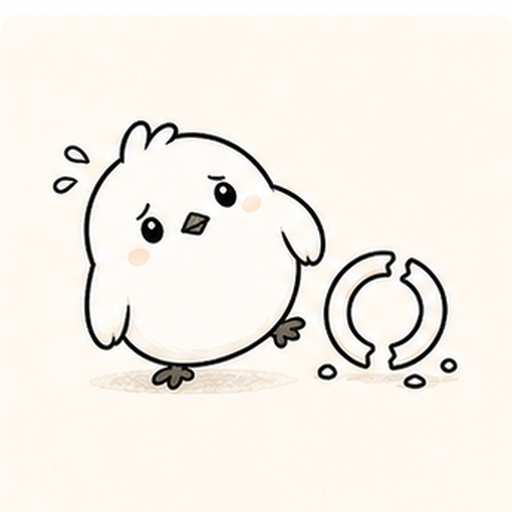
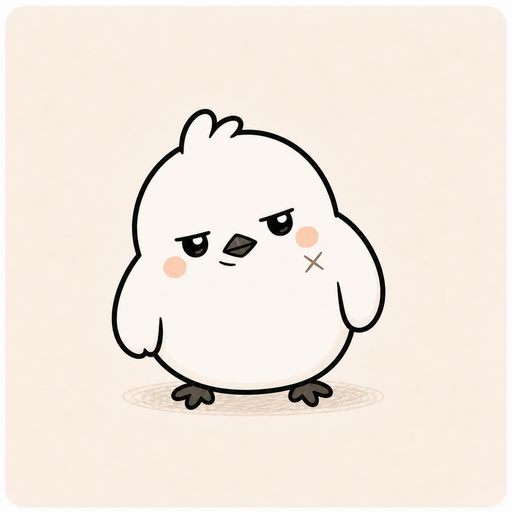
Refine mm7 and m7-5 action expressions

Changed region(s): [[0.0938, 0.1875, 0.9062, 0.8125], [0.0312, 0.0, 0.9688, 0.0312]]

diff --git a/app/index.html b/app/index.html
@@ -4,7 +4,7 @@
     <meta charset="utf-8">
     <meta name="viewport" content="width=device-width, initial-scale=1">
     <title>Codori MVP</title>
-    <link rel="stylesheet" href="./styles.css?v=20260530-dim-add9-v3">
+    <link rel="stylesheet" href="./styles.css?v=20260530-mm7-m75-v3">
   </head>
   <body>
     <main class="app-shell">
@@ -221,6 +221,6 @@
       </section>
     </main>
 
-    <script src="./main.js?v=20260530-dim-add9-v3"></script>
+    <script src="./main.js?v=20260530-mm7-m75-v3"></script>
   </body>
 </html>

diff --git a/app/main.js b/app/main.js
@@ -106,7 +106,7 @@ const ONE_POINT_ACCENTS = {
   },
   mM7: {
     slug: "mm7",
-    title: "宿命の斜め小片",
+    title: "犯人の含み笑い",
     asset: "assets/app/accents/imagegen-v1/mm7.png"
   },
   sus4: {
@@ -116,7 +116,7 @@ const ONE_POINT_ACCENTS = {
   },
   "m7-5": {
     slug: "m7-5",
-    title: "揺れる傾きダイヤ",
+    title: "ニヒルなX傷",
     asset: "assets/app/accents/imagegen-v1/m7-5.png"
   },
   dim: {

diff --git a/docs/ja/learning/all-main-chords-generation-review.md b/docs/ja/learning/all-main-chords-generation-review.md
@@ -45,9 +45,9 @@ B
 | add9 | きらっと見上げる | 元の白い鳥、`?actions=1`で候補表示 |
 | m7 | 夜にほどける | 元の白い鳥、`?actions=1`で候補表示 |
 | maj7 | 透明にたたずむ | 元の白い鳥、`?actions=1`で候補表示 |
-| mM7 | 宿命を見つめる | 元の白い鳥、`?actions=1`で候補表示 |
+| mM7 | 不気味に笑う | 元の白い鳥、`?actions=1`で候補表示 |
 | sus4 | まだ待っている | 元の白い鳥、`?actions=1`で候補表示 |
-| m7-5 | 少し揺れる | 元の白い鳥、`?actions=1`で候補表示 |
+| m7-5 | ニヒルに傾く | 元の白い鳥、`?actions=1`で候補表示 |
 | dim | きゅっと固まる | 元の白い鳥、`?actions=1`で候補表示 |
 | aug | ふわっと驚く | 元の白い鳥、`?actions=1`で候補表示 |
 
@@ -188,7 +188,7 @@ assets/app/review/mm7-app-2026-05-28/
 
 2026-05-28追記：
 
-- mM7は、宿命感が強いv5候補をアプリ確認用に反映した。
+- mM7は、2026-05-30時点でサスペンスの犯人風の不気味な笑みへ更新した。
 - `?actions=1&set=all-main-chords&search=CmM7` でCmM7単体を確認できる。
 
 ---
@@ -298,7 +298,7 @@ assets/app/review/all-main-chords-search-2026-05-23/mobile-search-cadd9.png
 - `Db / Eb / Gb / Ab / Bb` をフラット表記で進めるか、シャープ表記も切り替え可能にするか。
 - 0〜5フレット内の自動運指を、初心者向け運指としてどこまで採用するか。
 - `Sixth` を主要コード種類に入れるタイミング。
-- `mM7` の正式白い鳥アクションを、眉線なしでどこまで宿命感に寄せるか。
+- `mM7` の正式白い鳥アクションを、不気味な笑みとかわいさの境界でどこまで寄せるか。
 - `m7 / maj7 / mM7 / sus4 / m7-5 / dim / aug` の正式透過素材をいつ作るか。
 - 全コード図鑑を、お気に入り・学習済み管理付きに広げるか。
 

diff --git a/docs/ja/core/white-bird-action-system.md b/docs/ja/core/white-bird-action-system.md
@@ -37,7 +37,7 @@ Codoriの本番方針は以下です。
 | add9 | 青い小鳥方向 | 見上げるアクション + 一粒のきらめき |
 | m7 | 夜雀として別鳥種化 | ほどける夜アクション + やわらかい輪 |
 | maj7 | 白鳥として別鳥種化 | 透明で上品なアクション + 小ダイヤ |
-| mM7 | 黒鳥として別鳥種化 | 宿命を見つめるアクション + 斜め小片 |
+| mM7 | 黒鳥として別鳥種化 | 不気味に笑うアクション + 稲妻 |
 
 ## アクションとワンポイント固定表
 
@@ -49,9 +49,9 @@ Codoriの本番方針は以下です。
 | add9 | きらっと見上げる | 少し上を向く、軽く伸びる | 一粒のきらめき | 光を盛りすぎる |
 | m7 | 夜にほどける | 力を抜いて座る/立つ | やわらかい小さな輪 | 黒鳥化、眠りすぎ |
 | maj7 | 透明にたたずむ | 背筋を少し伸ばす、静かに遠くを見る | 透明な小ダイヤ | 白鳥化、首を長くする |
-| mM7 | 宿命を見つめる | 静かに張りつめる、遠くを見る | 細い斜めの小片 | 黒鳥化、ホラー化、悪役化 |
+| mM7 | 不気味に笑う | 目を細めた含み笑い、静かな張りつめ | 稲妻または鋭い小片 | 黒鳥化、怖すぎるホラー化 |
 | sus4 | まだ待っている | 片足または体を少し浮かせる | 浮いた小点 | 不安顔にしすぎる |
-| m7-5 | 少し揺れる | 少し斜め、細い緊張感 | 傾いた小ダイヤ | フクロウ化、怖くする |
+| m7-5 | ニヒルに傾く | 半目、斜に構える、頬のバッテン傷 | 頬のX傷 | フクロウ化、割れた輪っかを足す |
 | dim | きゅっと固まる | 小さくまとまる | 縮んだ小リング | ホラー化 |
 | aug | ふわっと驚く | 少しふくらむ、浮く | 広がる小リング | 派手な極楽鳥化 |
 

diff --git a/docs/ja/characters/white-bird-one-point-accent-system.md b/docs/ja/characters/white-bird-one-point-accent-system.md
@@ -43,9 +43,9 @@
 | add9 | うつろに上を見る | 水色の小さな星 | 空気が抜ける、軽さ | 目線の先 |
 | m7 | 力を抜く | やわらかい小さな輪 | 余韻、ほどける | 足元横 |
 | maj7 | 遠くを見る | 透明な小ダイヤ | 透明感、上品さ | 視線の先 |
-| mM7 | 横向きに張る | 細い斜めの小片 | 宿命、静かな覚悟 | 背後または右上 |
+| mM7 | 不気味に笑う | 稲妻または鋭い小片 | サスペンス、犯人の含み笑い、過酷な運命 | 背後または右上 |
 | sus4 | 片足を浮かせる | 浮いた小点 | 未解決、まだ着地しない | 浮いた足の下 |
-| m7-5 | 斜めに傾く | 傾いた小ダイヤ | 揺れ、不安定 | 傾き側の下 |
+| m7-5 | ニヒルに傾く | 頬のバッテン傷 | 不安定、斜に構える | 頬 |
 | dim | 悪魔的な目で固まる | コウモリ羽 | 不穏、縮む緊張 | 両脇 |
 | aug | 両羽を広げる | 外へ広がる小リング | 膨らみ、拡張 | 両羽の間または上 |
 
@@ -59,15 +59,16 @@
 - minor: 割れたハート
 - 7: ドヤっとしたキラッ
 - add9: 水色の小さな星
-- mM7: 細い斜めの小片
+- mM7: 不気味な笑みと稲妻
 - sus4: 浮いた小点
+- m7-5: 頬のバッテン傷
 - dim: コウモリ羽
 - aug: 広がる小リング
 
 要確認：
 
 - m7の輪とmaj7の小ダイヤが、96pxで十分に違って見えるか。
-- m7-5の傾いた小ダイヤとmaj7の小ダイヤが混同しないか。
+- m7-5の頬のバッテン傷が、96pxで傷として読めるか。
 - dimのコウモリ羽とmM7の稲妻が、96pxで別の印象として読めるか。
 
 ## キー色との関係

diff --git a/docs/ja/core/chord-family-bird-mapping-policy.md b/docs/ja/core/chord-family-bird-mapping-policy.md
@@ -143,10 +143,10 @@ assets/approved/characters/add9.png
 | 7 | C7, G7, A7 | カラス | いたずら、前へ進みたがる、ブルージー |
 | M7 / maj7 | CM7, Cmaj7 | 白鳥 | 透明感、上品、おしゃれ |
 | m7 | Cm7, Am7 | 夜雀 | 夜、余韻、エモい |
-| mM7 | CmM7, Cm(maj7) | 黒鳥 | ミステリー、過酷な運命、静かな覚悟 |
+| mM7 | CmM7, Cm(maj7) | 白い鳥の不気味な笑み | サスペンス、犯人の含み笑い、過酷な運命 |
 | sus4 | Csus4, Gsus4 | ペンギン | 浮遊、未解決、まだ着地しない |
 | add9 | Cadd9, Dadd9 | 青い小鳥 | きらきら、青春、空気感 |
-| m7-5 | Cm7-5, Bm7-5 | フクロウ | 不安定、都会の夜、緊張感 |
+| m7-5 | Cm7-5, Bm7-5 | 白い鳥のニヒルなX傷 | 頬のバッテン傷、不安定、都会の夜 |
 | dim | Cdim, Cdim7 | コキンメフクロウ | 不穏、緊迫、ミステリー |
 | aug | Caug, C+ | 極楽鳥 | 夢、不思議、異世界感 |
  
@@ -252,10 +252,10 @@ Cminmaj7
 デザイン方針：
 
 - ミステリーかつ過酷な運命
-- 悲しみよりも、避けられない運命を見つめる覚悟
-- 黒鳥方向を候補にする
+- 悲しみよりも、サスペンスの犯人のような含み笑い
+- 黒鳥化せず、元の白い鳥の表情差分で表す
 - m7の「ほどける夜」より硬く、maj7の「透明感」より影がある
-- dimのミステリーよりも、ホラーではなく宿命感を優先する
+- dimのミステリーよりも、ホラーではなくサスペンス感を優先する
 
 扱い：
 

diff --git a/docs/ja/characters/white-bird-action-production-brief.md b/docs/ja/characters/white-bird-action-production-brief.md
@@ -30,7 +30,7 @@ LINE展開の前に、他のコード種類も先に完成させる。
 6. maj7 / 透明にたたずむ
 7. mM7 / 宿命を見つめる
 8. sus4 / まだ待っている
-9. m7-5 / 少し揺れる
+9. m7-5 / ニヒルに傾く
 10. dim / きゅっと固まる
 11. aug / ふわっと驚く
 ```
@@ -66,7 +66,7 @@ docs/ja/characters/pre-line-chord-action-completion-plan.md
 | maj7 | 透明にたたずむ | 静かに遠くを見る、背筋を少し伸ばす |
 | mM7 | 宿命を見つめる | 影のある目、静かな覚悟、黒鳥化しない |
 | sus4 | まだ待っている | 片足または体を少し浮かせる、保留感 |
-| m7-5 | 少し揺れる | 少し斜め、細い緊張感、怖くしない |
+| m7-5 | ニヒルに傾く | 半目、斜に構える、頬のバッテン傷 |
 | dim | きゅっと固まる | 小さくまとまる、不思議だが怖くしない |
 | aug | ふわっと驚く | 少しふくらむ、浮く、夢っぽい |
 
